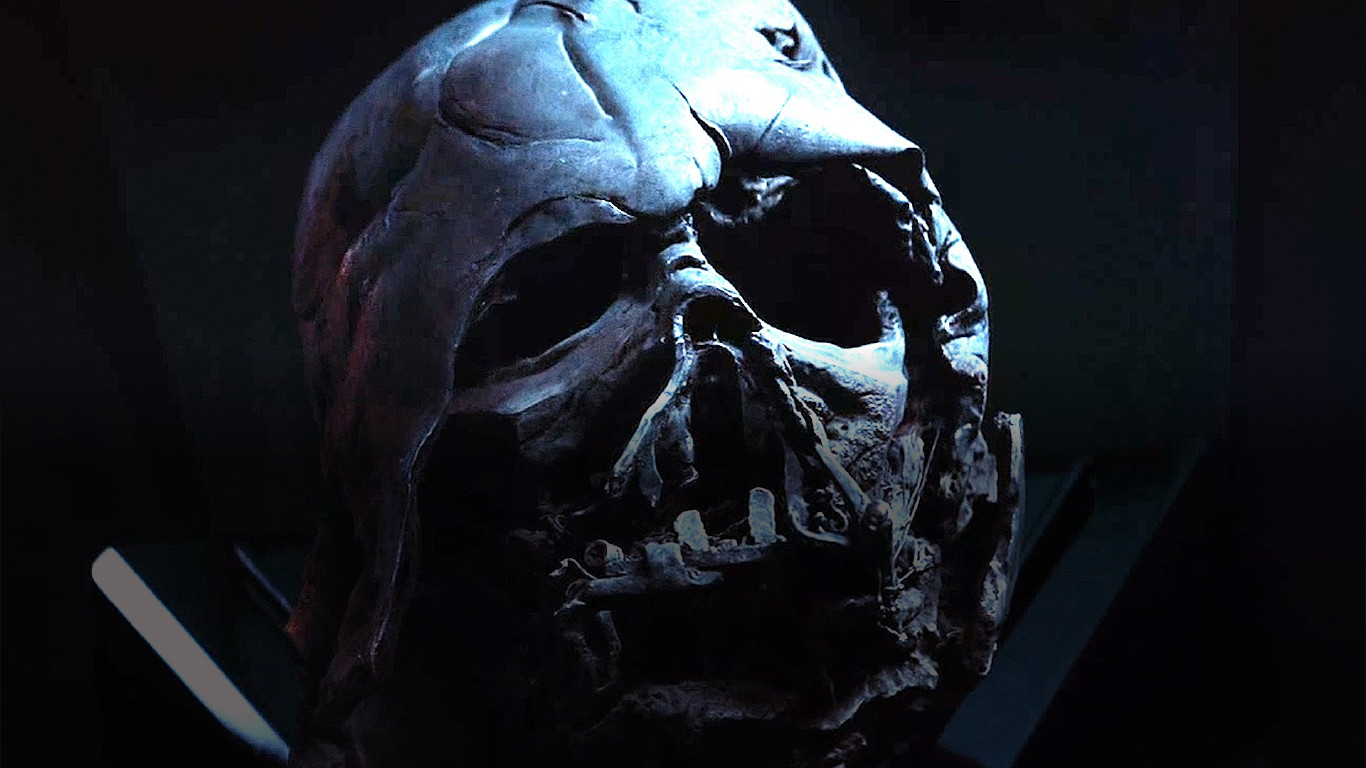
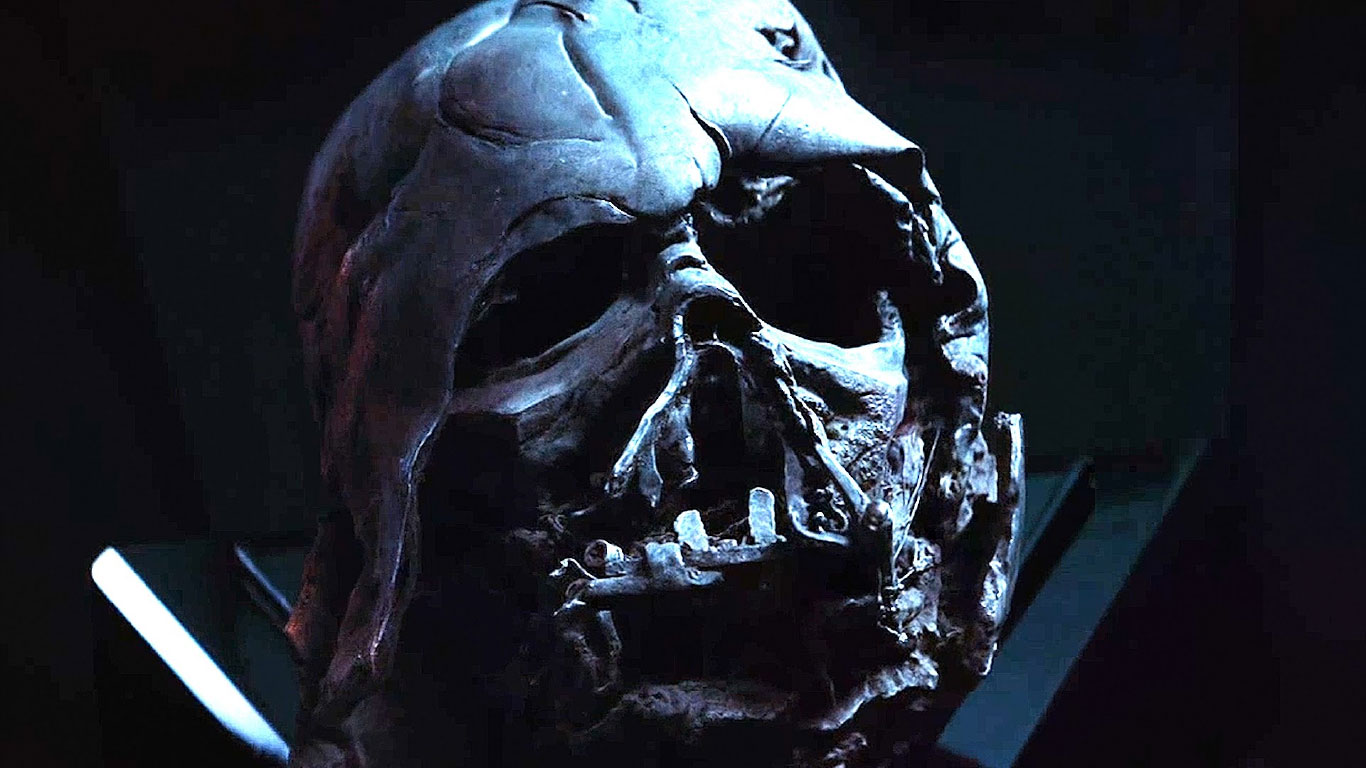
adding button bg

diff --git a/RDX.SW/index.html b/RDX.SW/index.html
@@ -39,33 +39,32 @@
         .sw-card {
             background-size: cover;
             background-repeat: no-repeat;
-            background-position: center center fixed;
+            background-position: center center;
         }
 
         .sw-card-0 {
-            background-image: url('sw_assets/bg-slide-0.jpg');
-
+            background-image: linear-gradient(to bottom,  rgba(0,0,0,0) 0%,rgba(0,0,0,0.65) 60%,rgba(0,0,0,0.65) 100%),
+            url('sw_assets/bg-slide-0.jpg');
         }
 
         .sw-card-1 {
-            background-image: url('sw_assets/bg-slide-1.jpg');
-
+            background-image:
+                    linear-gradient(to bottom,  rgba(0,0,0,0) 0%,rgba(0,0,0,0.65) 60%,rgba(0,0,0,0.65) 100%), url('sw_assets/bg-slide-1.jpg');
         }
 
         .sw-card-2 {
-            background-image: url('sw_assets/bg-slide-2.jpg');
+            background-image:
+                    linear-gradient(to bottom,  rgba(0,0,0,0) 0%,rgba(0,0,0,0.65) 60%,rgba(0,0,0,0.65) 100%), url('sw_assets/bg-slide-2.jpg');
         }
 
         .sw-card-3 {
-            background-image: url('sw_assets/bg-slide-3.jpg');
+            background-image:
+                    linear-gradient(to bottom,  rgba(0,0,0,0) 0%,rgba(0,0,0,0.65) 60%,rgba(0,0,0,0.65) 100%), url('sw_assets/bg-slide-3.jpg');
         }
 
         .sw-card-4 {
-            background-image: url('sw_assets/bg-slide-4.jpg');
-        }
-
-        .sw-card-5 {
-            background: #000 url('sw_assets/bg-slide-5.jpg');
+            background-image:
+                    linear-gradient(to bottom,  rgba(0,0,0,0) 0%,rgba(0,0,0,0.65) 60%,rgba(0,0,0,0.65) 100%), url('sw_assets/bg-slide-4.jpg');
         }
 
         .sw-card button {
@@ -90,7 +89,8 @@
         }
 
         .sw-hubButton {
-            background-color: #000000;
+            background: #000000 url('sw_assets/button-bg.png');
+            background-size: cover;
         }
 
         .sw-hubButton:after {
@@ -198,10 +198,6 @@
                         <div id="0-0" class="template-contentCard content-center layout-ksp sw-card sw-card-0" style="">
                             <div class="main-content text-center">
 
-                            <div class="video text-center">
-                                <video src="sw_assets/trailer-small.mp4" width="480" height="270" muted poster="sw_assets/trailer-image.jpg"></video>
-                            </div>
-
                             <span class="text-header">Star Wars VII: The Force Awakens
                             Check out Edge and watch the new trailer</span>
 
@@ -210,7 +206,9 @@
                                 </a>
                             </div>
                         </div>
-                        <div id="0-1" class="template-contentCard content-center layout-ksp sw-card sw-card-1" style="">
+                        <div id="0-1"
+                             class="template-contentCard content-center layout-ksp sw-card sw-card-1"
+                             style="">
                             <div class="main-content text-center">
 
                                 <div class="video text-center">

diff --git a/RDX.SW/src/less/core/layout.less b/RDX.SW/src/less/core/layout.less
@@ -139,26 +139,25 @@ body {
     // Content card page layouts                                                   //
     //-----------------------------------------------------------------------------//
 
+
                 // Required Setting [template-contentCard] - Content center / no hero
                 &.content-center {
-                    -ms-grid-columns: 1fr auto 1fr;
-                    -ms-grid-rows: 1fr;
+                    -ms-grid-columns: 1fr 100% 1fr;
+                    -ms-grid-rows: 1fr auto;
 
                     .main-content {
                         -ms-grid-column: 2;
                         -ms-grid-row: 2;
                         position: relative;
                         width: auto;
-
-                        &.text-center {
-                            text-align: center;
-                            margin: 0 auto;
-                        }
+                        text-align: center;
+                        margin: 0 auto;
                     }
 
-                    .video {
+                    video {
                         margin-bottom: 23px;
                     }
+
                 }
 
                 // Required Setting [template-contentCard] - Content left / hero-img right
